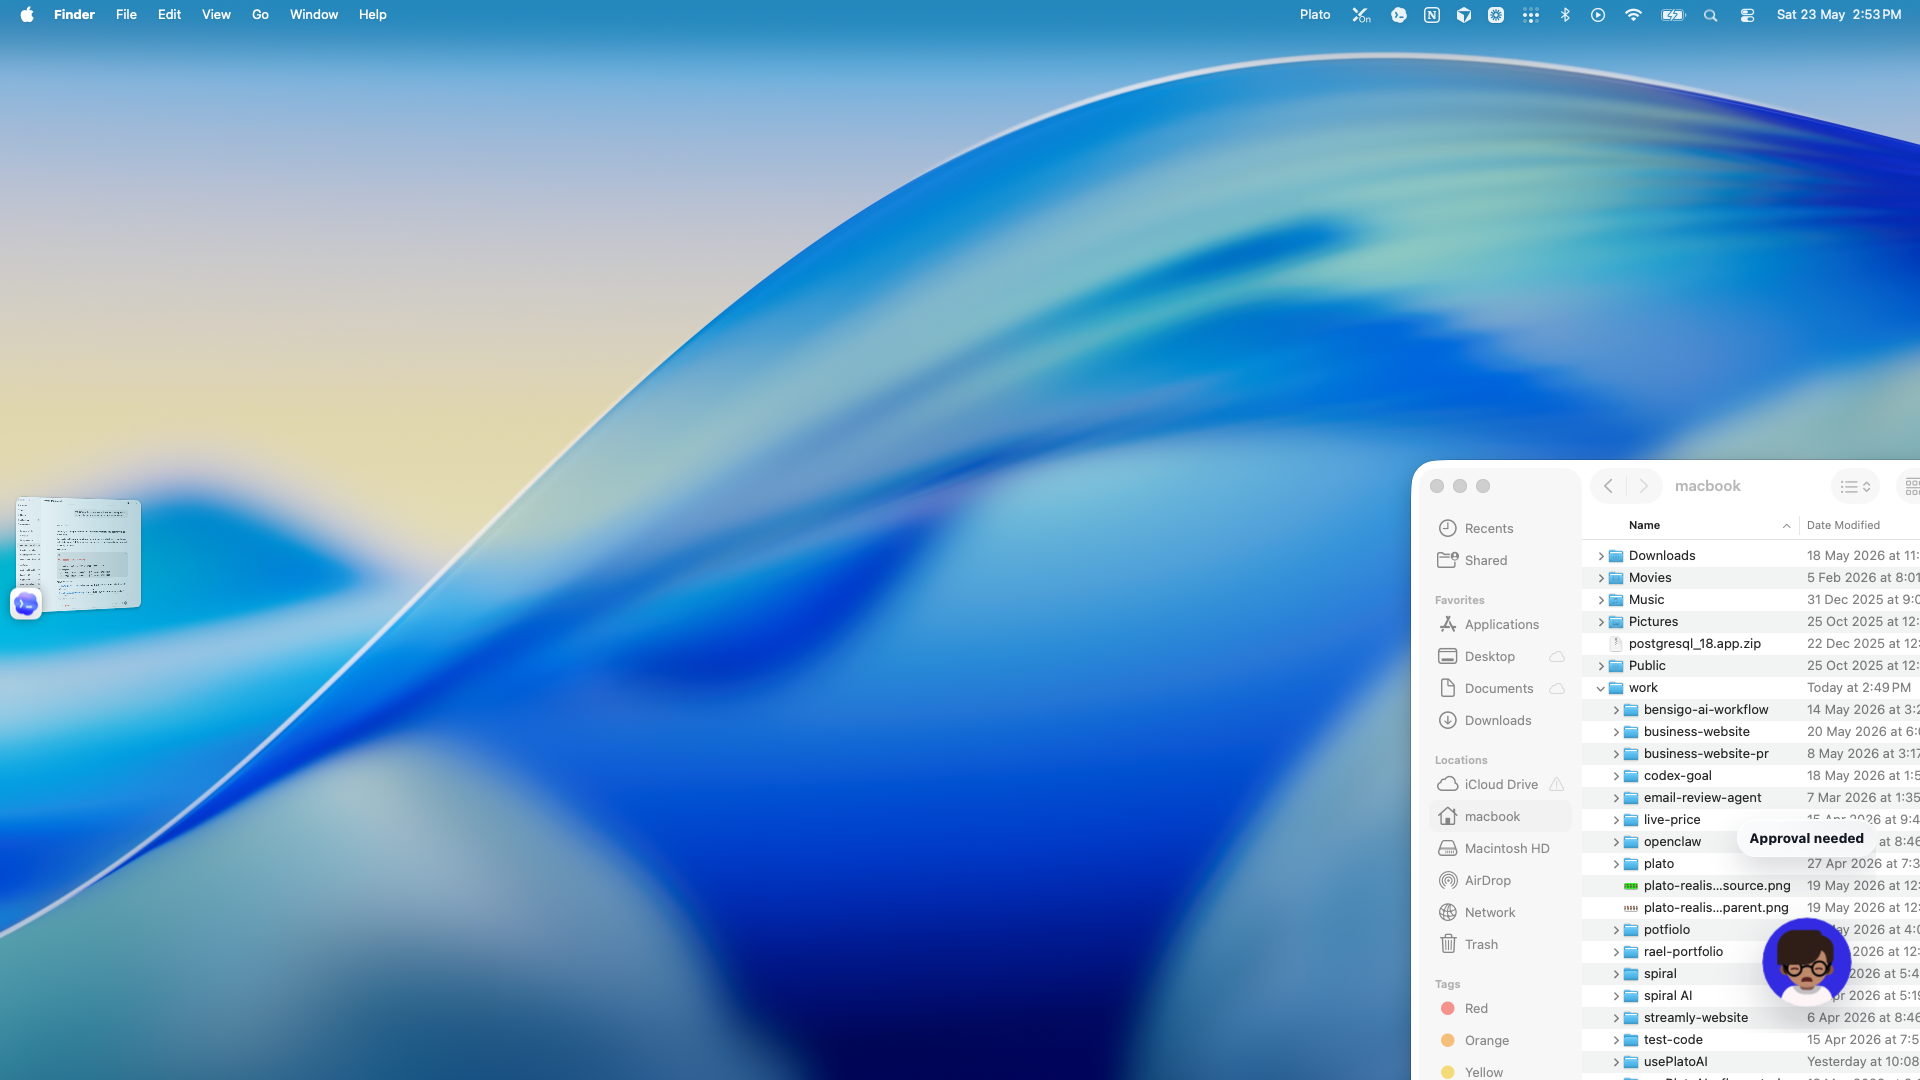
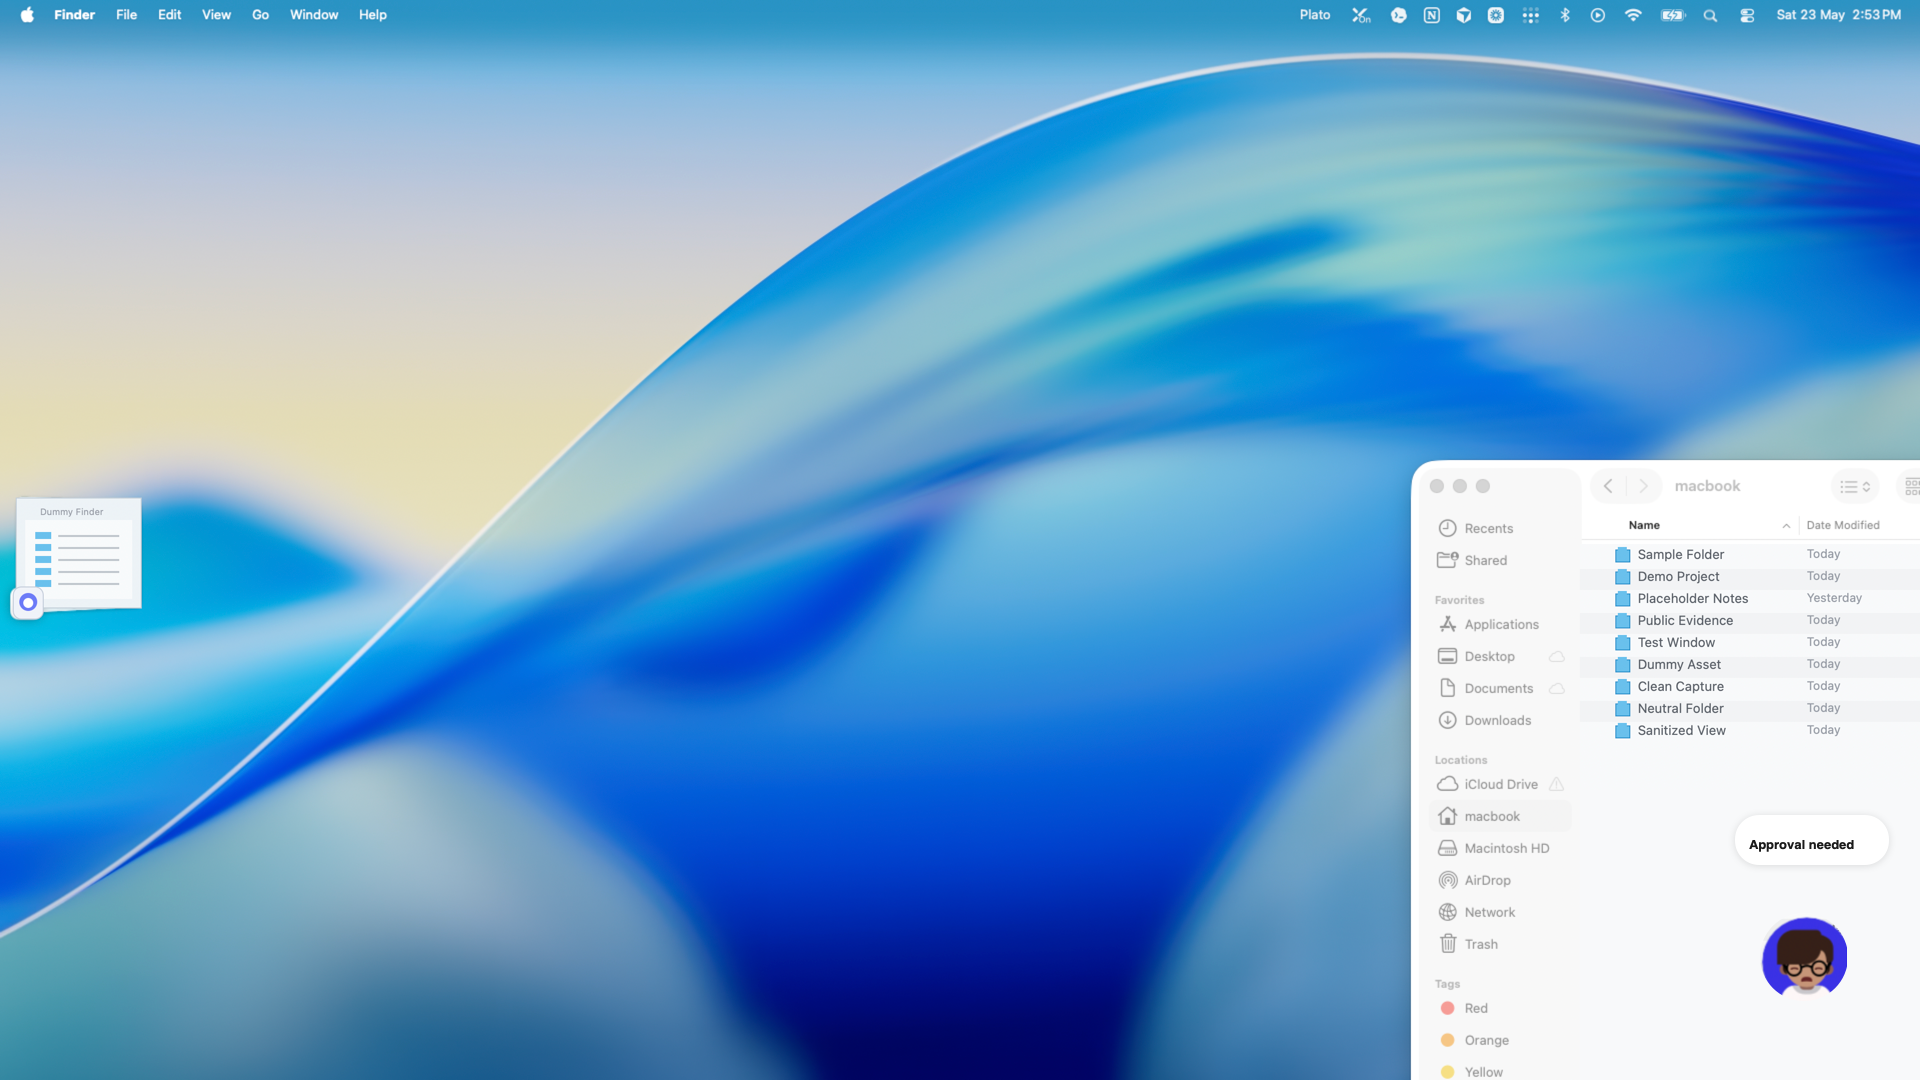
Sanitize native overlap evidence
Key decisions:
- Treat issue #283 as an evidence-only review fix for PR #282.
- Keep the existing native overlap capture geometry, Finder focus, and Plato overlap proof.
- Replace live local Finder contents with dummy/blank sanitized content rather than recapturing new native evidence.

Files changed:
- docs/visual-evidence/issue-273/README.md
- docs/visual-evidence/issue-273/native-overlapping-finder-focused.png

Blockers/notes:
- No product code changes were needed.
- Verification is limited to visual inspection and image/document checks because this only replaces committed evidence.

diff --git a/docs/visual-evidence/issue-273/README.md b/docs/visual-evidence/issue-273/README.md
@@ -9,7 +9,7 @@ Files:
 
 - `native-restart-external-finder-focused.png` - captured after restarting `pnpm --filter @useplatoai/desktop tauri dev`; Plato relaunches visible on the external display.
 - `native-external-finder-focused.png` - captured after focusing Finder; Plato remains visible on the external display after focus changes.
-- `native-overlapping-finder-focused.png` - captured with Finder focused and a normal Finder window positioned under Plato on the external display; Plato's approval bubble and avatar remain visible above the overlapping native window.
+- `native-overlapping-finder-focused.png` - sanitized capture based on Finder focused with a normal Finder window positioned under Plato on the external display; live local folder contents are replaced with dummy rows while Plato's approval bubble and avatar remain visible above the overlapping native window.
 
 Relevant checks:
 
